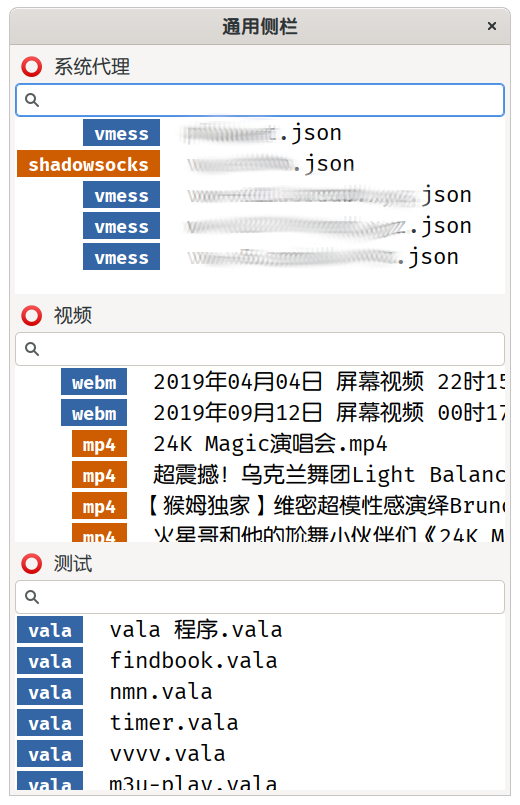
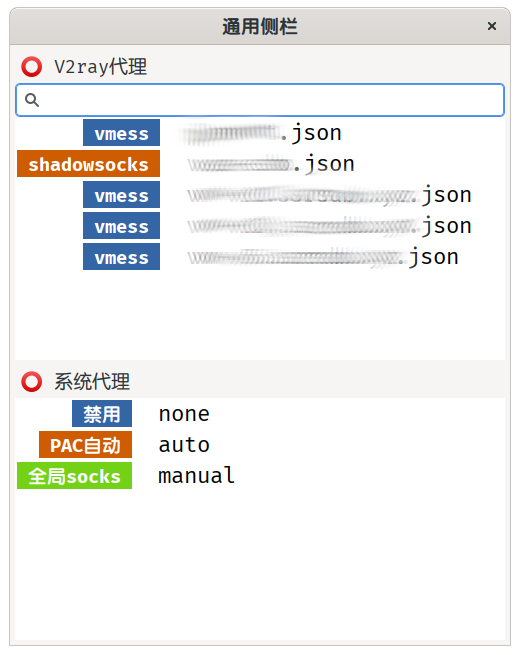
readme

Changed region(s): [[0.0308, 0.0, 0.9846, 0.458], [0.0308, 0.458, 0.9846, 1.0]]

diff --git a/README.md b/README.md
@@ -1,46 +1,14 @@
 # 通用（屏幕）侧栏
 
 
-> 从配置文件，构建快速动作。单列，瀑布型，类似侧栏。简单粗暴。
+> 从ini配置文件，构建列表，点击执行。单列，瀑布型，类似侧栏。
 
 ![](./list-exec.png)
-![](./list-exec1.png)
 
-> 配置文件格式，直接看`conf.ini`里面的说明。
-
-> settings的某些函数又废弃了。暂时取消Switch功能。
 
 ## 配置文件格式
 
-### 开关
-```
-[Switch]
-SCHEMA_KEY = org.gnome.system.proxy mode
-Name = 切换系统代理模式
-Follow_execute = 
-```
-gsettings里面获取。
-	
-```
-⭕ gsettings range org.gnome.system.proxy use-same-proxy
-type b
-⭕ gsettings describe org.gnome.system.proxy.ftp host
-执行 FTP 代理的计算机名。
-```
-布尔类型。纯开关。描叙文本，只能作为tip使用。
-```
-⭕ gsettings range org.gnome.system.proxy mode
-enum
-'none'
-'manual'
-'auto'
-```
-枚举类型。多选。
+> 配置文件格式，直接看`conf.ini`里面的说明。
 
-### 选择并执行
-```
-[Choose]
-List = ls -1 ~/bin/vvvv/json/*.json
-Exec = sudo pkill -9 v2ray; sudo v2ray $$
-Search = true
-```
+> GLib.Settings的某些函数又废弃了。暂时取消Switch功能。只保留List功能。
+
